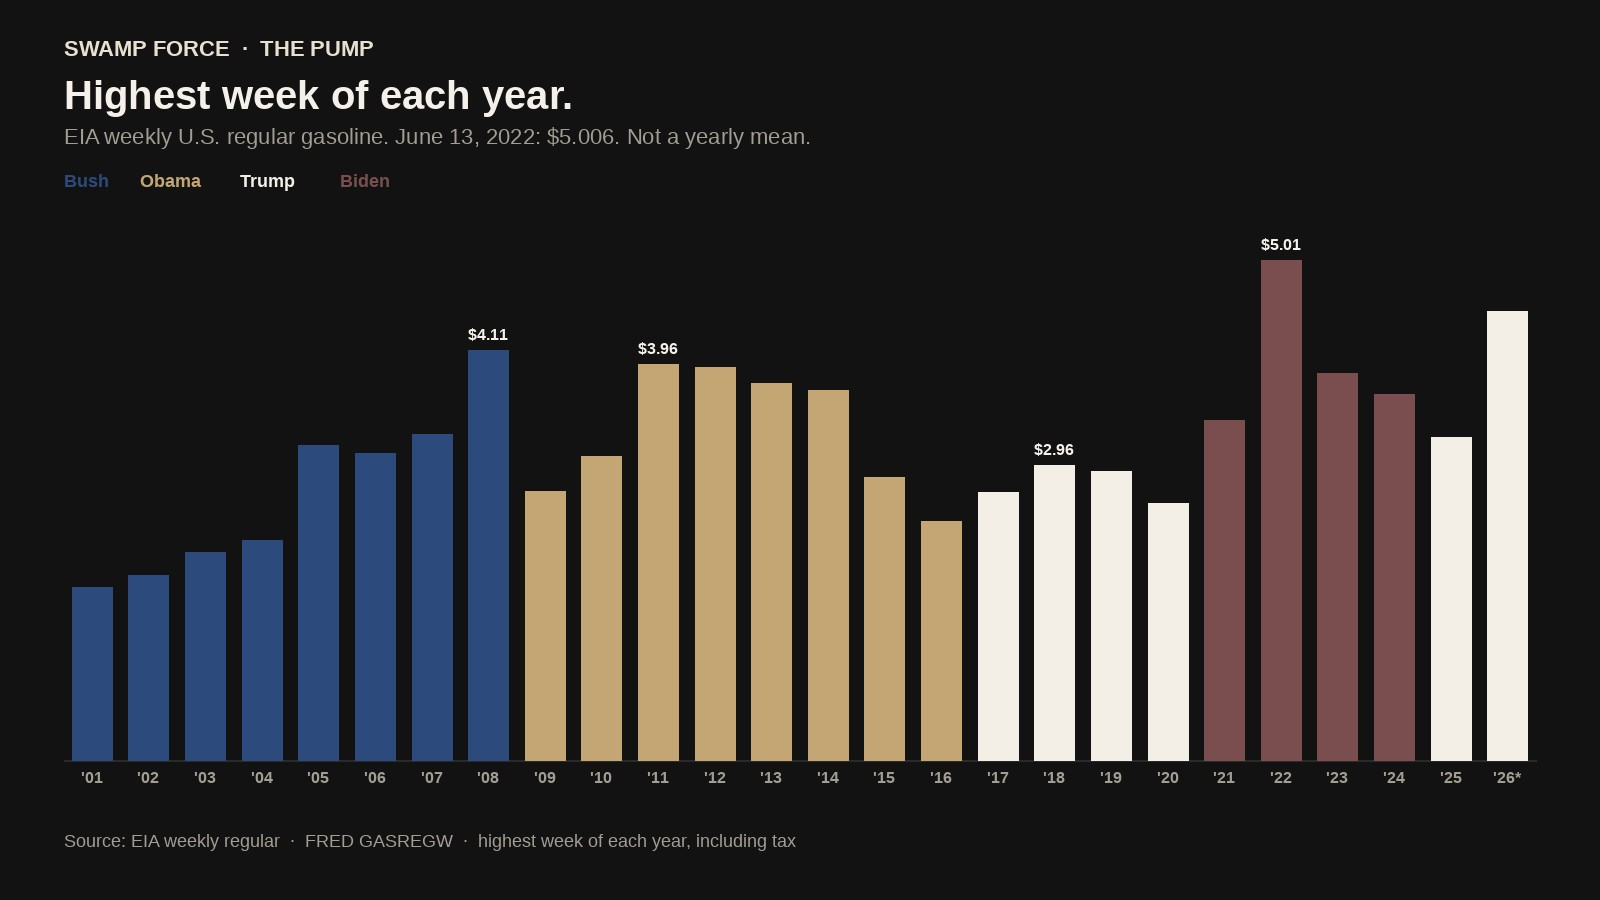
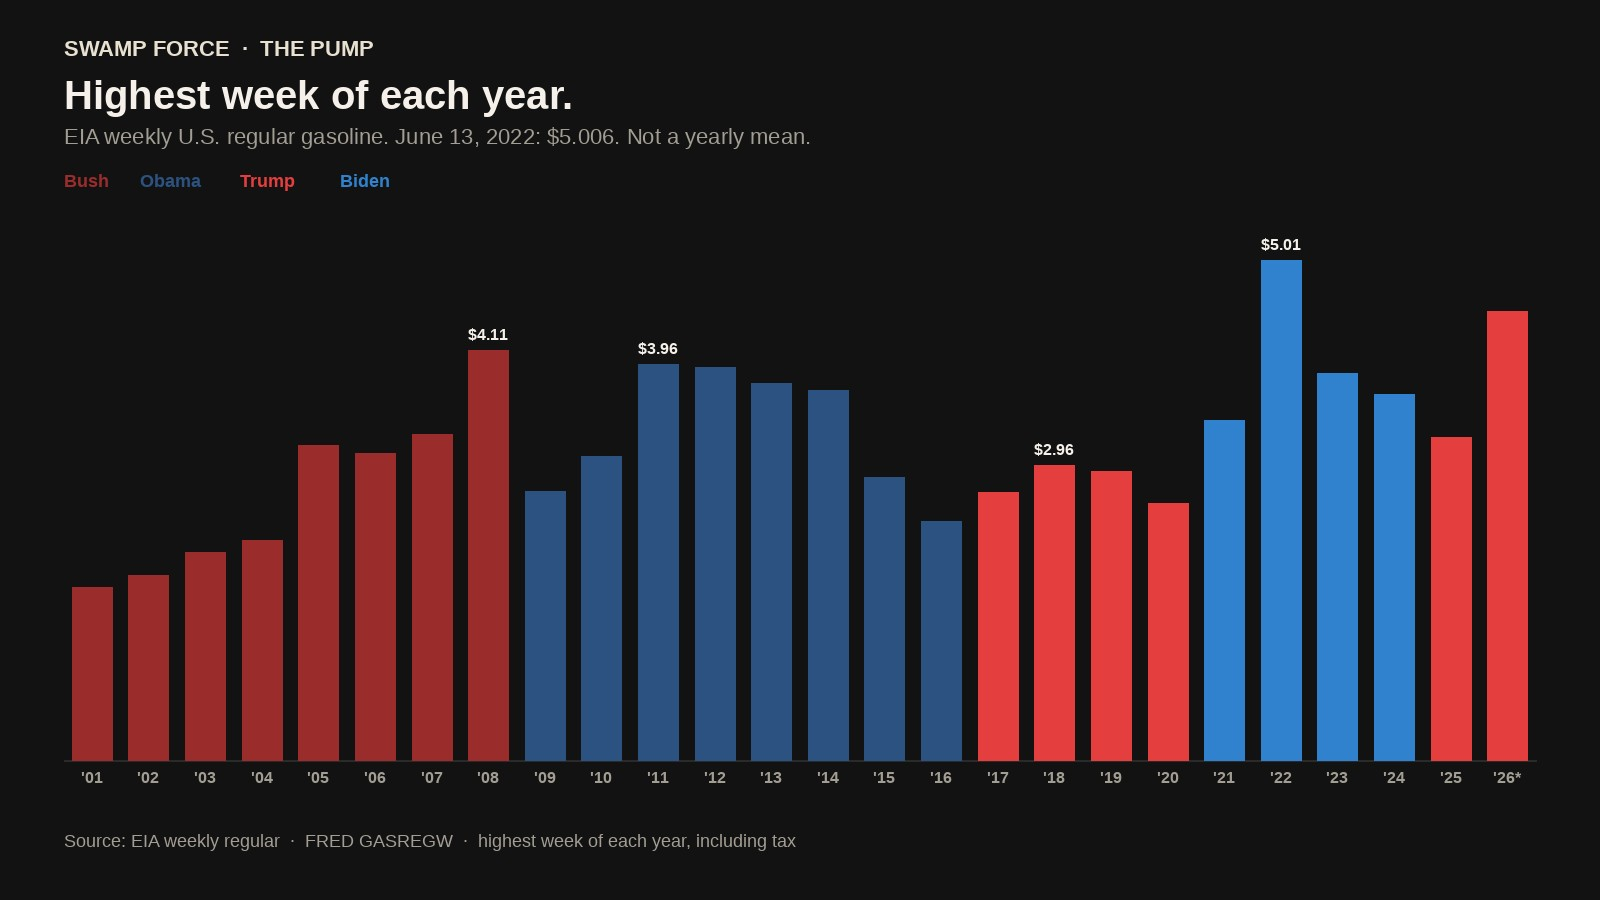
Charts: GOP red, Democrats blue. Each Oval a distinct shade.

diff --git a/scripts/make-party-charts.py b/scripts/make-party-charts.py
@@ -9,14 +9,14 @@ from matplotlib.ticker import MultipleLocator, FuncFormatter
 bg = "#0b0b0b"
 fg = "#ece8dc"
 muted = "#a39e93"
-gop_c = "#6b7c94"
-dem_c = "#d4c8b4"
+gop_c = "#c53030"
+dem_c = "#2b6cb0"
 split_c = "#3d3d3d"
-clinton_c = "#9a8b74"
-bush_c = "#2c4a7c"
-obama_c = "#c4a574"
-trump_c = "#f3eee6"
-biden_c = "#7a4e4e"
+clinton_c = "#2c5282"
+bush_c = "#9b2c2c"
+obama_c = "#2c5282"
+trump_c = "#e53e3e"
+biden_c = "#3182ce"
 hurt_c = "#9a8f82"
 help_c = "#d8d0c0"
 
@@ -562,7 +562,7 @@ ax.text(
     color=muted,
     va="top",
 )
-who = [("Republican majority", 10.96, gop_c), ("Democratic majority", 12.65, biden_c), ("Split", 16.48, split_c)]
+who = [("Republican majority", 10.96, gop_c), ("Democratic majority", 12.65, dem_c), ("Split", 16.48, split_c)]
 y0 = 9.35
 for i, (lab, v, c) in enumerate(who):
     y = y0 - i * 0.72
@@ -587,7 +587,7 @@ ax.text(
     color=fg,
     va="top",
 )
-ax.text(0.2, 2.95, "DEMOCRATS", fontsize=13, fontweight="bold", color=biden_c)
+ax.text(0.2, 2.95, "DEMOCRATS", fontsize=13, fontweight="bold", color=dem_c)
 ax.text(
     0.2,
     2.5,
@@ -648,7 +648,7 @@ labels = [
     "A bomb  ·  ~90%",
 ]
 vals = [5, 3.67, 60, 90]
-colors = [help_c, gop_c, biden_c, hurt_c]
+colors = [help_c, "#8a93a3", "#d8d0c0", hurt_c]
 y = [3, 2, 1, 0]
 ax.barh(y, vals, color=colors, height=0.62)
 for yi, v, lab in zip(y, vals, labels):
@@ -808,7 +808,7 @@ box(
     "CONGRESS  ·  DEMOCRATIC MAJORITY",
     ["1993 tax raised the top rate", "CHIP reauthorized 2009", "Ledbetter Fair Pay 2009"],
     ["10.83 million encounters FY21–24", "CPI 9.1% June 2022", "Rescue Plan 2021", "Parole into benefits"],
-    biden_c,
+    dem_c,
 )
 ovals = [
     (

diff --git a/scripts/make-pump-charts.py b/scripts/make-pump-charts.py
@@ -11,10 +11,10 @@ BG, FG, MUTED, SAGE, LINE = (
     (232, 224, 208),
     (42, 42, 42),
 )
-BUSH = (44, 74, 124)
-OBAMA = (196, 165, 116)
-TRUMP = (243, 238, 230)
-BIDEN = (122, 78, 78)
+BUSH = (155, 44, 44)
+OBAMA = (44, 82, 130)
+TRUMP = (229, 62, 62)
+BIDEN = (49, 130, 206)
 GAS = (232, 224, 208)
 DIESEL = (140, 132, 118)
 W, H = 1600, 900
